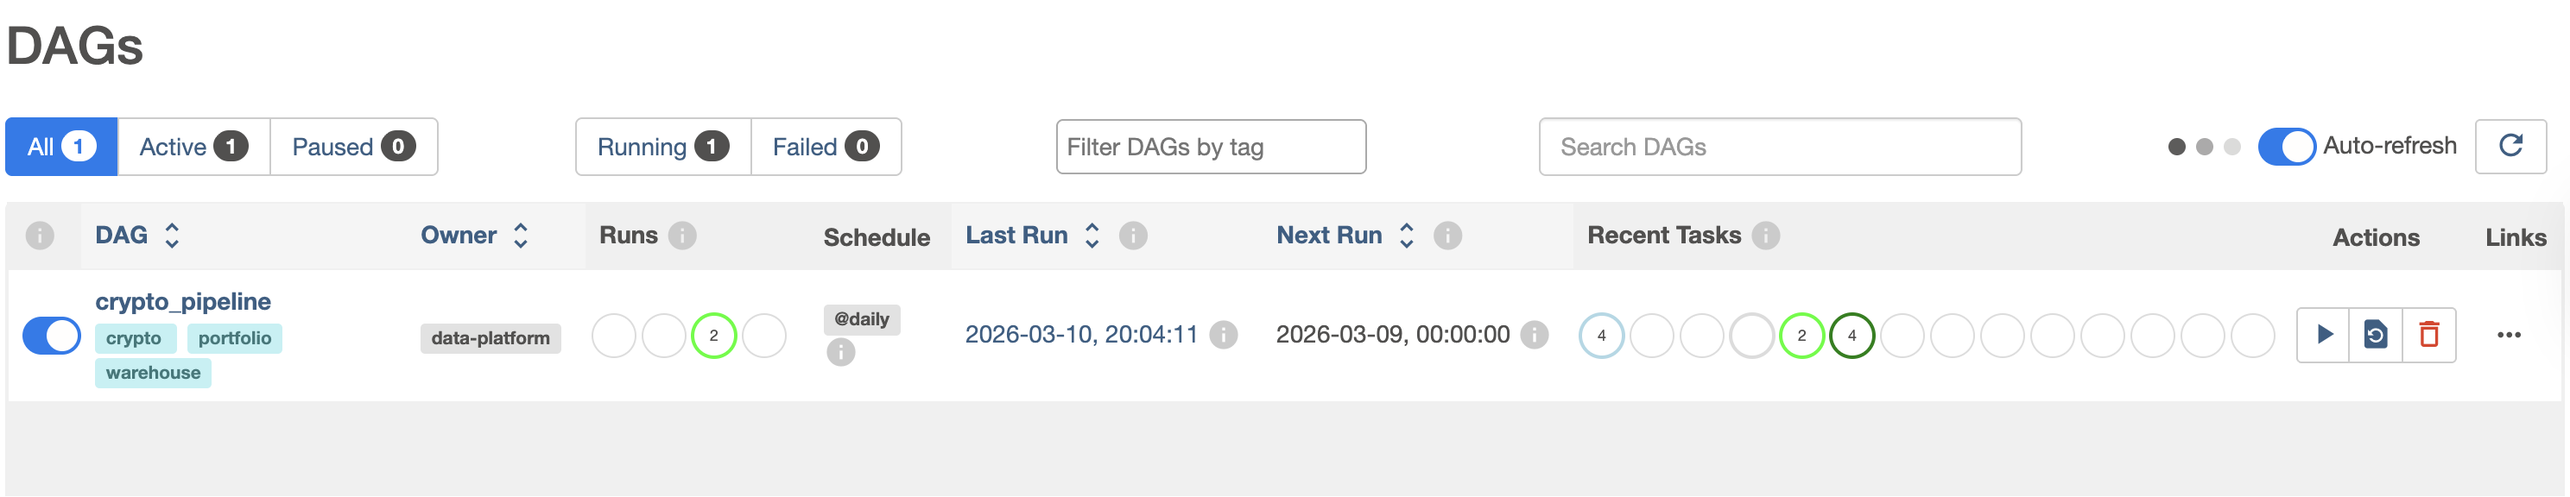
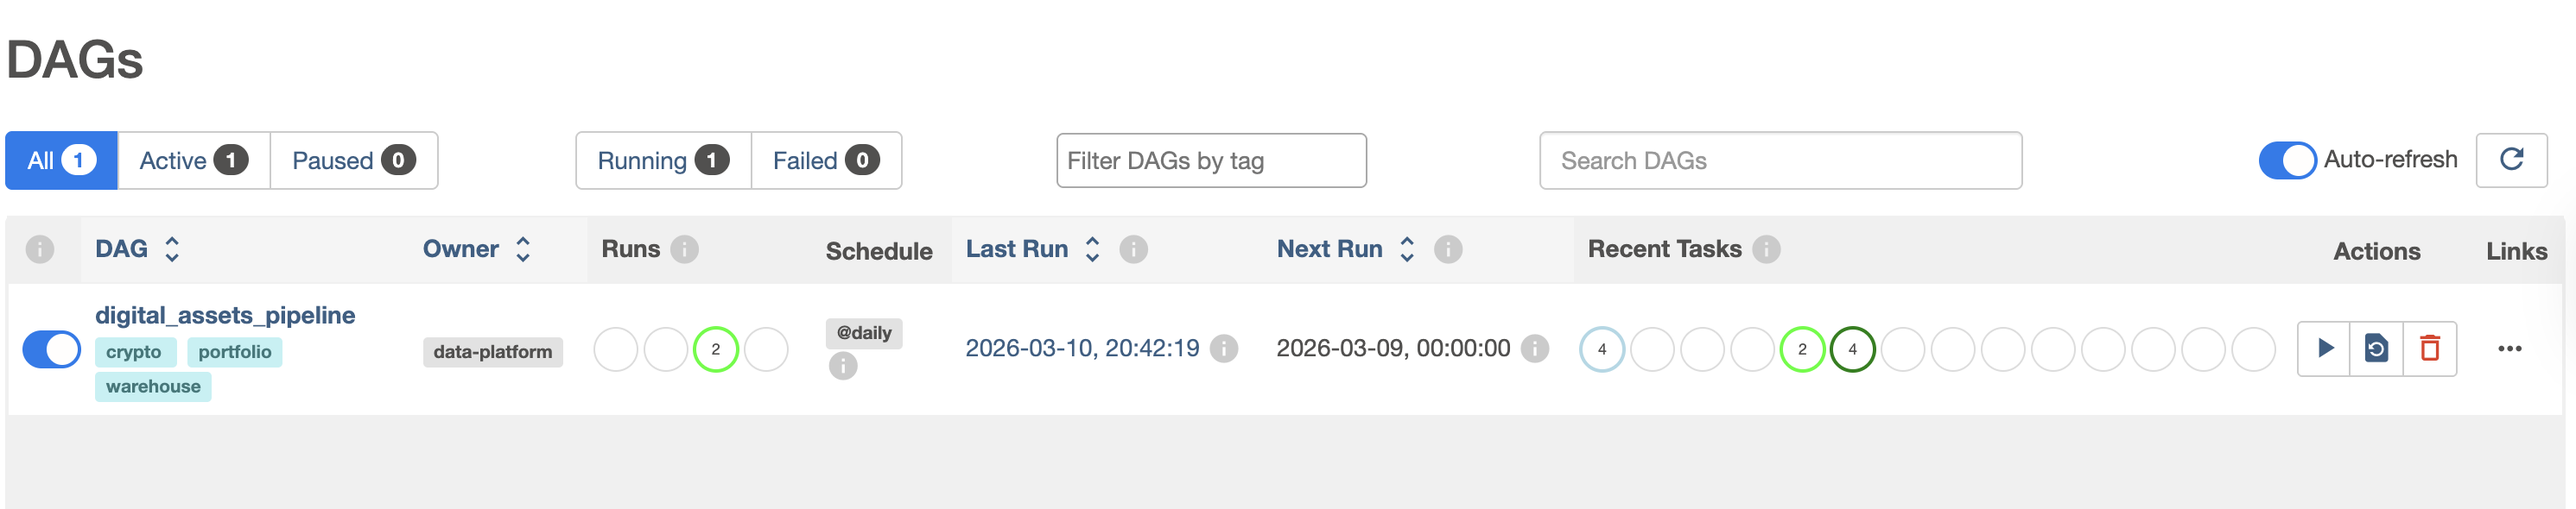
Refresh Airflow screenshots for renamed DAG

diff --git a/README.md b/README.md
@@ -109,6 +109,12 @@ The current local demo has already been validated with live data:
 
 See [docs/demo_walkthrough.md](docs/demo_walkthrough.md) for a reviewer-friendly walkthrough and [dashboards/demo_queries.sql](dashboards/demo_queries.sql) for demo SQL.
 
+### Airflow Overview
+
+The orchestration layer is running locally in Airflow and exposes the end-to-end DAG for ingestion, transformation, and validation.
+
+![Airflow DAG list showing the digital_assets_pipeline DAG active](docs/assets/airflow-dag-list.png)
+
 ## Example Pipeline Flow
 
 1. Fetch a configurable range of confirmed Ethereum blocks via JSON-RPC.

diff --git a/docs/demo_walkthrough.md b/docs/demo_walkthrough.md
@@ -42,6 +42,26 @@ Recommended captures:
 2. Graph view
 3. One successful task log
 
+Current captured artifacts:
+
+### DAG list view
+
+Shows the renamed DAG active in Airflow.
+
+![Airflow DAG list view](assets/airflow-dag-list.png)
+
+### Graph view during execution
+
+Shows the task dependency chain during a live run.
+
+![Airflow graph live run](assets/airflow-graph-live-run.png)
+
+### DAG summary
+
+Shows the Airflow summary panel for the renamed DAG.
+
+![Airflow DAG summary](assets/airflow-dag-summary.png)
+
 ## Demo Script
 
 ### Step 1: Show Running Services
